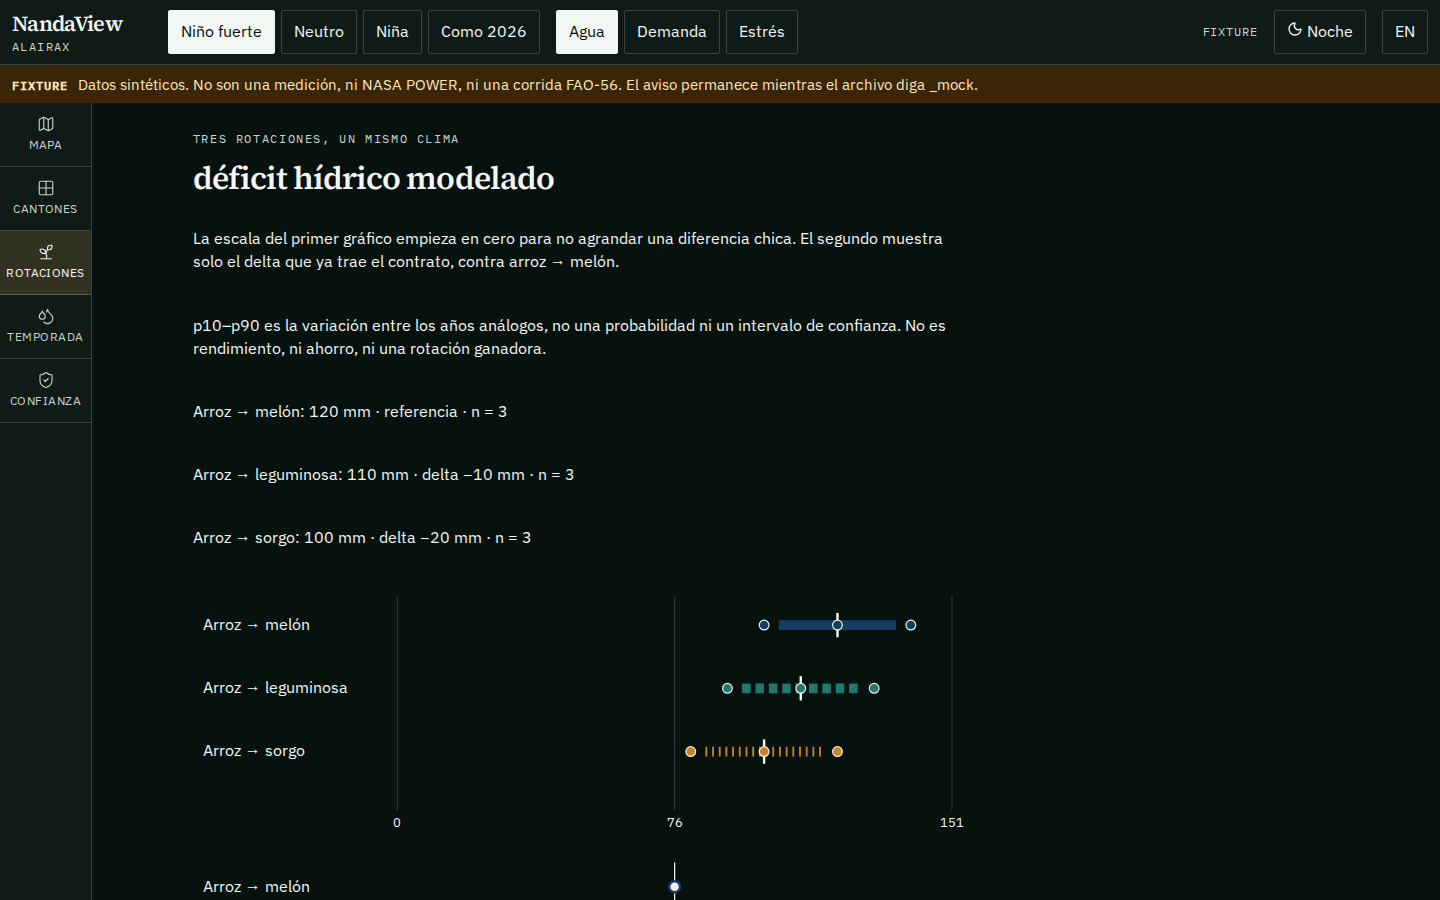
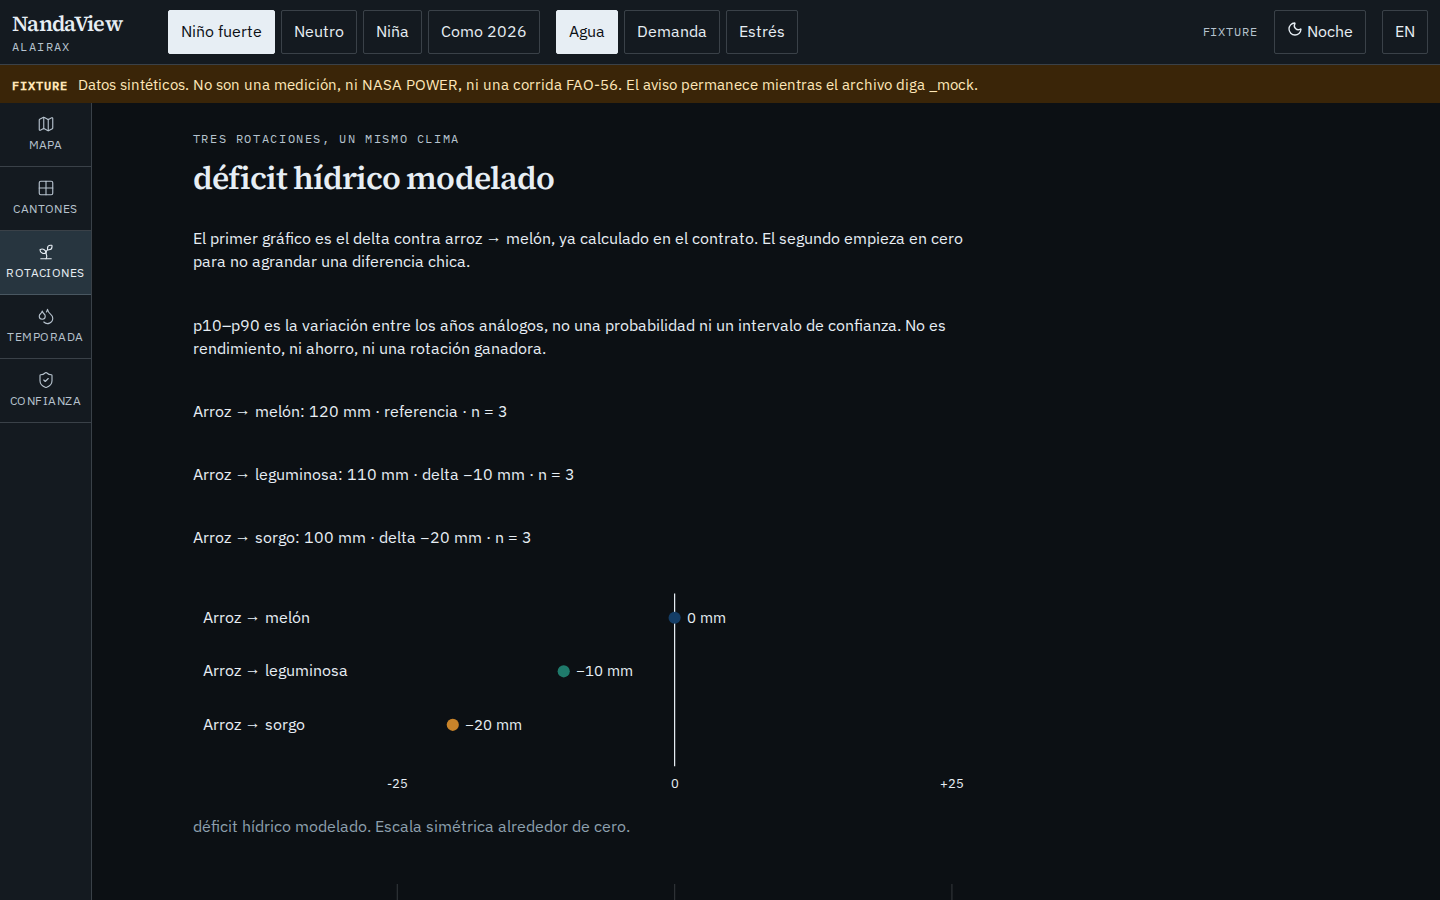
Etiquetar el delta y agrandar el mapa en el celular.
Cuando p10 y p90 coinciden, el gráfico muestra el valor en milímetros junto al punto. En 360 px la provincia ocupa el hueco visible del mapa.

diff --git a/frontend/src/components/Charts.tsx b/frontend/src/components/Charts.tsx
@@ -96,23 +96,35 @@ export function DeltaChart({ compare, metric, lang, names }: { compare: CompareR
             ? "Cero es la referencia. La banda es p10 a p90 del delta que ya trae el contrato. Un valor negativo es un número modelado más bajo, no un ahorro."
             : "Zero is the reference. The band is the contract delta from p10 to p90. A negative value is a lower modeled number, not savings."}
         </desc>
-        <line x1={mid} x2={mid} y1={16} y2={height - 18} stroke="currentColor" />
-        <text x={mid} y={height - 2} textAnchor="middle" fill="currentColor" fontSize="11">0</text>
+        <line x1={mid} x2={mid} y1={16} y2={height - 22} stroke="currentColor" />
+        {[-span, 0, span].map((value) => (
+          <text key={value} x={xOf(value)} y={height - 4} textAnchor="middle" fill="currentColor" fontSize="11">
+            {value > 0 ? `+${Math.round(value)}` : Math.round(value)}
+          </text>
+        ))}
         {ROTATION_ORDER.map((id, index) => {
           const rotation = compare.rotations.find((item) => item.rotation_id === id);
           const y = 36 + index * 44;
           if (!rotation) return null;
           const summary = rotation.delta_vs_baseline[metric];
           const style = ROTATION_STYLE[id];
+          const flat = summary.p10 !== null && summary.p90 !== null && summary.p10 === summary.p90;
           return (
             <g key={id}>
               <text x={8} y={y + 4} fill="currentColor" fontSize="13">{rotationName(id, lang, names[id])}</text>
-              {summary.p10 !== null && summary.p90 !== null ? (
+              {summary.p10 !== null && summary.p90 !== null && !flat ? (
                 <line x1={xOf(summary.p10)} x2={xOf(summary.p90)} y1={y} y2={y} stroke={style.color} strokeWidth="8" />
+              ) : null}
+              {summary.p50 !== null ? (
+                <>
+                  <circle cx={xOf(summary.p50)} cy={y} r="5" fill={style.color} />
+                  <text x={xOf(summary.p50) + 10} y={y + 4} fill="currentColor" fontSize="12">
+                    {formatSigned(summary.p50, metric, lang)}
+                  </text>
+                </>
               ) : (
                 <text x={left} y={y + 4} fill="currentColor" fontSize="12">{lang === "es" ? "sin dato" : "no data"}</text>
               )}
-              {summary.p50 !== null ? <circle cx={xOf(summary.p50)} cy={y} r="4.5" fill="#f4efe4" stroke={style.color} strokeWidth="2" /> : null}
             </g>
           );
         })}

diff --git a/frontend/src/screens/MapScreen.tsx b/frontend/src/screens/MapScreen.tsx
@@ -140,7 +140,7 @@ export function MapScreen() {
       <div className="hud left-hud">
         <section className="panel stack" aria-label={spanish ? "Lectura" : "Reading"}>
           <p className="kicker">{scenarioName || (spanish ? "Escenario" : "Scenario")} · n = {n || "…"}</p>
-          <h1>{spanish ? "Déficit modelado" : "Modeled deficit"}</h1>
+          <h1>{metricNoun(metric, lang)}</h1>
           {comparison.isPending ? <p>{spanish ? "Cargando la comparación…" : "Loading the comparison…"}</p> : null}
           {comparison.isError ? <p className="warn">{spanish ? "No se pudo leer la comparación." : "The comparison could not be read."} {(comparison.error as Error).message}</p> : null}
           {loaded && !compare ? <p className="warn">{loaded.httpDetail}</p> : null}

diff --git a/frontend/e2e/productor.spec.ts b/frontend/e2e/productor.spec.ts
@@ -18,7 +18,7 @@ test("un productor resuelve las cinco tareas y la consola queda limpia", async (
 
   await page.goto("/#/");
   await expect(page.getByRole("status").first()).toContainText("FIXTURE");
-  await expect(page.getByRole("heading", { name: "Déficit modelado" })).toBeVisible();
+  await expect(page.getByRole("heading", { name: /déficit hídrico modelado/i })).toBeVisible();
   await page.getByRole("button", { name: "Ir al punto del modelo" }).click();
   await expect(page.getByRole("option", { name: /Liberia/ })).toHaveAttribute("aria-selected", "true");
 

diff --git a/frontend/src/map/NandaMap.tsx b/frontend/src/map/NandaMap.tsx
@@ -348,7 +348,7 @@ export function NandaMap({ hidden, inset }: { hidden: boolean; inset: "panel" | 
             [[bounds[0], bounds[1]], [bounds[2], bounds[3]]],
             {
               padding: narrow
-                ? { top: 96, bottom: 210, left: 12, right: 12 }
+                ? { top: 36, bottom: 150, left: 10, right: 10 }
                 : inset === "panel"
                   ? { top: 24, bottom: 72, left: 368, right: 96 }
                   : { top: 36, bottom: 64, left: 120, right: 56 },
